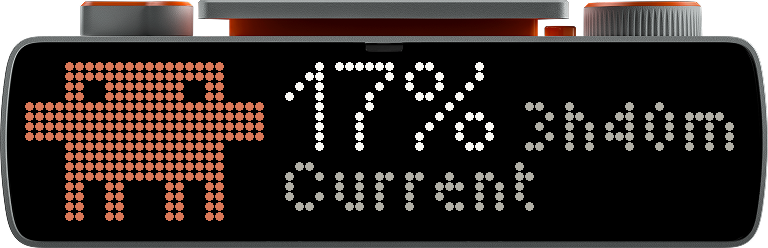
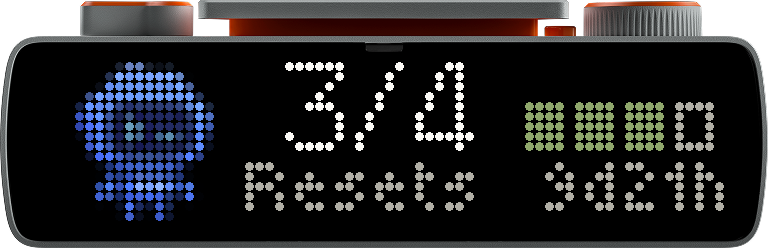
busybar: Fable's caption band, and stop the mascot haunting the states
THE LAYOUT, third time. Both previous versions shortened something: the time
("3h29", which is not a duration), then the label ("Curre"), then I moved the
countdown up beside the number, which the owner rejected -- it competed with a
9px figure on a row that was already 2px from full while the caption row held
one short word and 20px of nothing.

Fable's answer needs neither sacrifice: the caption band starts at x=22, not
26. Only Clawd's ARMS reach x=23, and they occupy rows 4..7 -- on rows 9..15
both mascots stop at column 19. Those four pixels make the band 50px, which is
exactly "Current" (26) + 2 + "3h29m" (22). The number keeps its own row.

PRECISION BY WINDOW, not by fit. A 5-hour window is worth minutes and always
shows them; a 7-day one carries days and hours. The daemon tags each card with
its kind -- including "sk", which marks the case where a provider sends a
WEEKLY window in the session slot. Codex does exactly that, and without the
tag the card rendered "Weekly13h50m" with no room for the space.

THE MASCOT WAS HAUNTING THE STATE SCREENS. "pet" was the one id never
tombstoned, so a frame that omits it -- "no host", which deliberately has no
mascot because the pet lives on the host -- kept the previous card's Clawd
underneath the words. Tombstoning an image needs a real asset path, since an
unreadable one rejects the whole batch. Both states now centre their text,
in the pane beside the pet or on the whole screen without it.

Changed region(s): [[0.0312, 0.254, 0.9688, 0.9032]]

diff --git a/busybar/petmeter/src/main.ts b/busybar/petmeter/src/main.ts
@@ -37,7 +37,6 @@ const RETRY_MAX_MS = 10_000;
 // both stand 16 tall, which is what reads as "the same size".
 const PET_X: Record<string, number> = { claude: 0, codex: 4 };
 const NUM_X = 26;       // the pane: everything right of the mascot
-const PANE_W = 46;
 const CELL_Y = 4;       // credit cells sit on the number's row
 const CELL_H = 5;
 // The caption row. At y=9 the baseline lands on row 16 -- one below the last
@@ -52,6 +51,7 @@ const LARGE_DIGIT = 7;
 const LARGE_PCT = 10;
 const SMALL_ADV = 4;
 const SMALL_WIDE = 6;   // "m" and "w"
+const NORMAL_ADV = 6;
 const WIDTH = 72;
 
 // Thresholds and colours from the firmware's pct_color(), so the bar and the
@@ -74,6 +74,8 @@ type Card = {
   used?: number;
   /** Seconds left as of the poll; aged locally, never from the bar's clock. */
   in_s?: number;
+  /** Which window this is, which decides the countdown's precision. */
+  kind?: string;
 };
 
 const PET_IMAGE: Record<string, string> = {
@@ -96,7 +98,11 @@ const PET_IMAGE: Record<string, string> = {
  * An id must also keep its **type** across draws or the entire batch 400s,
  * which is why `reset` is always text and never a countdown.
  */
-const IDS: Array<[string, "text" | "rectangle"]> = [
+const IDS: Array<[string, "text" | "rectangle" | "image"]> = [
+  // The mascot is tombstoned like everything else. Leaving it out is how the
+  // "no host" screen ended up with the previous card's Clawd still under the
+  // words: an id this frame does not name is an id the canvas keeps.
+  ["pet", "image"],
   ["num", "text"],
   ["label", "text"],
   ["reset", "text"],
@@ -109,12 +115,19 @@ const IDS: Array<[string, "text" | "rectangle"]> = [
 ];
 for (let i = 0; i < MAX_CELLS; i++) IDS.push([`cell${i}`, "rectangle"]);
 
-function tombstone(id: string, type: "text" | "rectangle"): Element {
+function tombstone(id: string, type: "text" | "rectangle" | "image"): Element {
   const base = { id, type, x: 0, y: 0, display: "front", display_until: "1" };
-  return type === "text"
-    ? { ...base, text: " ", font: "small", color: COL_DIM, align: "top_left" }
-    : { ...base, width: 1, height: 1, fill: "solid",
-        fill_colors: [COL_TRACK], border_width: 0 };
+  if (type === "text") {
+    return { ...base, text: " ", font: "small", color: COL_DIM,
+             align: "top_left" };
+  }
+  if (type === "image") {
+    // Must name a real asset: an unreadable path rejects the whole batch,
+    // tombstone or not.
+    return { ...base, path: PET_IMAGE.claude };
+  }
+  return { ...base, width: 1, height: 1, fill: "solid",
+           fill_colors: [COL_TRACK], border_width: 0 };
 }
 
 /** Fills in whatever the frame left out, so nothing lingers from the last card. */
@@ -167,7 +180,12 @@ function colorFor(pct: number): string {
  * were wrong. The time goes up beside the number instead, where the space is
  * free on every quota card, and the label gets the caption row to itself.
  */
-const RESET_Y = 2;      // small text beside the number, optically centred
+// The caption band starts LEFT of the pane. Only Clawd's arms reach x=23,
+// and they occupy rows 4..7; on rows 9..15 both mascots stop at column 19, so
+// the band can begin at 22 with the same 2px clearance. Those four pixels are
+// what make "Current" and "3h40m" fit on one row without shortening either.
+const BAND_X = 22;
+const BAND_W = 50;
 
 function text(
   id: string,
@@ -203,18 +221,28 @@ function rect(
 }
 
 /**
- * "1h25m", "5d21h", "10d" -- no spaces, because "23h 59m" is 28px and would
- * clip the 27px column. Deliberately not the device's `countdown` element:
- * that renders HH:MM:SS in a wide font, ticks every 100ms, and takes hours
- * modulo 60, so a five-day reset would show as 21 hours.
+ * PRECISION IS A PROPERTY OF THE WINDOW, NOT OF WHAT FITS.
+ *
+ * A 5-hour window is worth minutes, so it always shows them: "3h40m". A 7-day
+ * one is not -- "Weekly" plus "23h59m" is 52px of a 50px row and always would
+ * be -- so those carry days and hours, and hours alone inside the last day.
+ * Nothing is ever shortened to make it fit; the unit is chosen once, by what
+ * the number means.
+ *
+ * Never the device's `countdown` element: that renders HH:MM:SS in a wide
+ * font, ticks every 100ms, and takes hours modulo 60, so a five-day reset
+ * would show as 21 hours.
  */
-function until(seconds: number): string {
+function until(seconds: number, kind?: string): string {
   if (seconds <= 0) return "now";
   const d = Math.floor(seconds / 86400);
   const h = Math.floor((seconds % 86400) / 3600);
   const m = Math.floor((seconds % 3600) / 60);
+  if (kind === "session") {
+    return h >= 1 ? `${h}h${String(m).padStart(2, "0")}m` : `${m}m`;
+  }
   if (d >= 1) return `${d}d${h}h`;
-  if (h >= 1) return `${h}h${m}m`;
+  if (h >= 1) return `${h}h`;
   return `${m}m`;
 }
 
@@ -244,14 +272,14 @@ function quota(card: Card, left: number | null): Element[] {
   // Three digits and a "%" would reach the countdown above; the sign is the
   // part that can go, since the bar-less card has nothing else to be.
   const shown = pct >= 100 ? "100" : `${pct}%`;
-  const reset = left === null ? null : until(left);
+  const reset = left === null ? null : until(left, card.kind);
   const out: Element[] = [
     petOf(card),
     text("num", shown, "large", NUM_X, -2, colorFor(pct)),
-    text("label", card.label, "small", NUM_X, CAPTION_Y, COL_DIM, PANE_W),
+    text("label", card.label, "small", BAND_X, CAPTION_Y, COL_DIM, BAND_W),
   ];
   if (reset !== null) {
-    out.push(text("reset", reset, "small", rightAlign(reset), RESET_Y, COL_DIM));
+    out.push(text("reset", reset, "small", rightAlign(reset), CAPTION_Y, COL_DIM));
   }
   return out;
 }
@@ -268,10 +296,10 @@ function credits(card: Card, left: number | null): Element[] {
   const out: Element[] = [
     petOf(card),
     text("num", shown, "large", NUM_X, -2, COL_TEXT),
-    text("label", card.label, "small", NUM_X, CAPTION_Y, COL_DIM, PANE_W),
+    text("label", card.label, "small", BAND_X, CAPTION_Y, COL_DIM, BAND_W),
   ];
 
-  const detail = held === 0 ? "spent" : left !== null ? until(left) : null;
+  const detail = held === 0 ? "spent" : left !== null ? until(left, card.kind) : null;
   if (detail !== null) {
     out.push(text("reset", detail, "small", rightAlign(detail),
                   CAPTION_Y, COL_DIM));
@@ -304,8 +332,8 @@ function credits(card: Card, left: number | null): Element[] {
 function toast(word: string): Element[] {
   return [
     {
-      id: "tmask", type: "rectangle", x: NUM_X, y: CAPTION_Y + 1,
-      width: PANE_W, height: 6, radius: 0,
+      id: "tmask", type: "rectangle", x: BAND_X, y: CAPTION_Y + 1,
+      width: BAND_W, height: 7, radius: 0,
       fill: "solid", fill_colors: ["#000000FF"], border_width: 0,
       display: "front", timeout: 2, z_index: 100,
     },
@@ -327,12 +355,21 @@ function frame(card: Card, left: number | null, paused: boolean,
   return say ? out.concat(toast(say)) : out;
 }
 
-/** The pet says "app alive, host present, reading missing". Without a host
- *  there is nothing of ours to show, so that state is text alone. */
+/**
+ * The pet says "app alive, host present, reading missing", so `no data` keeps
+ * it and centres the words in the pane beside it. `no host` drops it -- the
+ * pet lives on the host -- and centres on the whole screen, which only works
+ * because `pet` is tombstoned above.
+ */
 function message(value: string, withPet: Card | null): Element[] {
-  const out: Element[] = withPet ? [petOf(withPet)] : [];
-  out.push(text("msg", value, "normal", withPet ? 31 : 18, 3, COL_DIM));
-  return complete(out);
+  const width = value.length * NORMAL_ADV;
+  if (withPet) {
+    const x = NUM_X + Math.round((WIDTH - NUM_X - width) / 2);
+    return complete([petOf(withPet), text("msg", value, "normal", x, 3, COL_DIM)]);
+  }
+  return complete([
+    text("msg", value, "normal", Math.round((WIDTH - width) / 2), 3, COL_DIM),
+  ]);
 }
 
 /**

diff --git a/daemon/sinks/serve.py b/daemon/sinks/serve.py
@@ -114,10 +114,14 @@ def _cards(payload: dict, provider: str, now: float) -> list[dict]:
     """
     out: list[dict] = []
 
-    def add(label: str, pct, resets_in) -> None:
+    def add(label: str, pct, resets_in, kind: str) -> None:
         if pct is None:
             return
-        card = {"provider": provider, "label": label, "pct": float(pct)}
+        # The device formats the countdown by WINDOW, not by label: a 5-hour
+        # window is worth minutes, a 7-day one is not, and "Weekly" plus
+        # "23h59m" does not fit the caption row anyway.
+        card = {"provider": provider, "label": label, "pct": float(pct),
+                "kind": kind}
         if isinstance(resets_in, int) and resets_in >= 0:
             # Seconds remaining at the moment of this poll, not an absolute
             # instant. The app ages it with its own elapsed time, so the
@@ -128,20 +132,24 @@ def _cards(payload: dict, provider: str, now: float) -> list[dict]:
     session_label = payload.get("sm") or "Current"
     weekly_label = payload.get("wm") or "Weekly"
     if payload.get("has_s", True):
-        add(session_label, payload.get("s"), payload.get("sr"))
+        # A provider that meters only one window sends it in the session slot;
+        # "sk" says when that slot is really a week, so the countdown is not
+        # timed to the minute for something seven days long.
+        add(session_label, payload.get("s"), payload.get("sr"),
+            payload.get("sk") or "session")
     if payload.get("has_w", True):
-        add(weekly_label, payload.get("w"), payload.get("wr"))
+        add(weekly_label, payload.get("w"), payload.get("wr"), "weekly")
 
     # Scoped model allowances share the weekly reset instant.
     for scoped in payload.get("ws") or []:
         if isinstance(scoped, dict) and scoped.get("n"):
-            add(scoped["n"], scoped.get("p"), payload.get("wr"))
+            add(scoped["n"], scoped.get("p"), payload.get("wr"), "weekly")
 
     # Reset credits are a count, not a proportion, so they ride as their own
     # shape rather than being forced into a bar.
     held, used = payload.get("rc"), payload.get("ru")
     if held or used:
-        card = {"provider": provider, "label": "Resets",
+        card = {"provider": provider, "label": "Resets", "kind": "credits",
                 "held": int(held or 0), "used": int(used or 0)}
         if isinstance(payload.get("rm"), int) and payload["rm"] >= 0:
             card["in_s"] = payload["rm"] * 60

diff --git a/daemon/claude_usage_daemon.py b/daemon/claude_usage_daemon.py
@@ -806,8 +806,10 @@ def codex_payload() -> dict | None:
             model_name, model_week = name, windows[WINDOW_7D]
             break
 
+    top_kind: str | None = None
     if account_week is not None and model_week is not None:
         top, top_label = model_week, model_name.rsplit("-", 1)[-1][:12]
+        top_kind = "weekly"
         bottom, bottom_label = account_week, "Overall"
     else:
         # No model weekly to pair with: fall back to the plain window mapping,
@@ -831,6 +833,10 @@ def codex_payload() -> dict | None:
             # drops the empty card rather than drawing a dash in it.
             top, top_label = week, "Weekly"
             bottom, bottom_label = None, None
+            # The top slot is where a 5-hour window normally sits, and the
+            # device times those to the minute. This one is a WEEK. Say so, or
+            # the card reads "Weekly13h50m" with no room for a space.
+            top_kind = "weekly"
         else:
             top, top_label = five, None
             bottom, bottom_label = week, None
@@ -873,6 +879,8 @@ def codex_payload() -> dict | None:
     # Pill overrides. Short form only -- the pill is a few characters wide, so
     # "GPT-5.3-Codex-Spark" would never fit and "Spark" is the distinguishing
     # part. Absent means the device keeps its default label.
+    if top_kind:
+        payload["sk"] = top_kind
     if top_label:
         payload["sm"] = top_label
     if bottom_label:

diff --git a/busybar/README.md b/busybar/README.md
@@ -193,25 +193,24 @@ wins and the other gets 409s. Set `busybar_url` or `busybar_serve`, not both.
 
 ```
  0            23 26                                      71
-├─── mascot ────┤├─ 17% (large, rows 0..8) ──── 3h40m ───┤
-                ├─ Current ──────────────────────────────┤  rows 11..15
+├─── mascot ────┤├─ 21% (large, rows 0..8) ──────────────┤
+              ├─ Current ···················· 3h29m ─────┤  rows 10..15
+              ^ x=22
 ```
 
-**The countdown sits beside the number, not beside the label.** "Current" and
-"3h40m" want 52px of a 46px row, so one of them has to give: first the time
-gave (`3h40` — a duration nobody writes, and the one number on the card worth
-acting on), then the label gave (`Curre`). Both were wrong. The top row has
-free space on every quota card, so the time went there and the label got the
-caption row to itself. At 100% the percent sign gives way instead, so three
-digits never reach the countdown.
+**The caption band starts left of the pane, at x=22.** Only Clawd's *arms*
+reach x=23, and they occupy rows 4..7; on rows 9..15 both mascots stop at
+column 19. Those four pixels are the difference between fitting "Current" and
+"3h29m" on one row and having to shorten one of them — which is what the two
+previous versions did, first to the time ("3h29", a duration nobody writes)
+and then to the label ("Curre").
 
-**There is no bar.** In a 46px pane a `large` number cannot share a row with
-any label, and label + 9px number + a bar do not stack in 16 rows — something
-had to give. The bar was earning least: its track (`#2A2A28`) is invisible on
-an LED matrix, so it never showed headroom, and its one real job, carrying the
-alarm, a 9px number does better than a 2px stripe. **The number is the alarm
-now** — white below 75%, amber to 90%, red above. White rather than green at
-rest: with nothing else tinted, permanent green is wallpaper.
+**Countdown precision is a property of the window, never of what fits.** A
+5-hour window is worth minutes and always shows them; a 7-day one is not, so
+it carries days and hours, and hours alone inside the last day. The daemon
+tags each card with its `kind` — including when a provider sends a *weekly*
+window in the session slot, which Codex does, and which otherwise renders
+"Weekly13h50m" with no room for the space.
 
 **The mascots.** Clawd is authored on a 12×8 grid at 100px a cell, so he
 renders at exactly 2× — 24×16 — with no resampling. That matters: averaging
